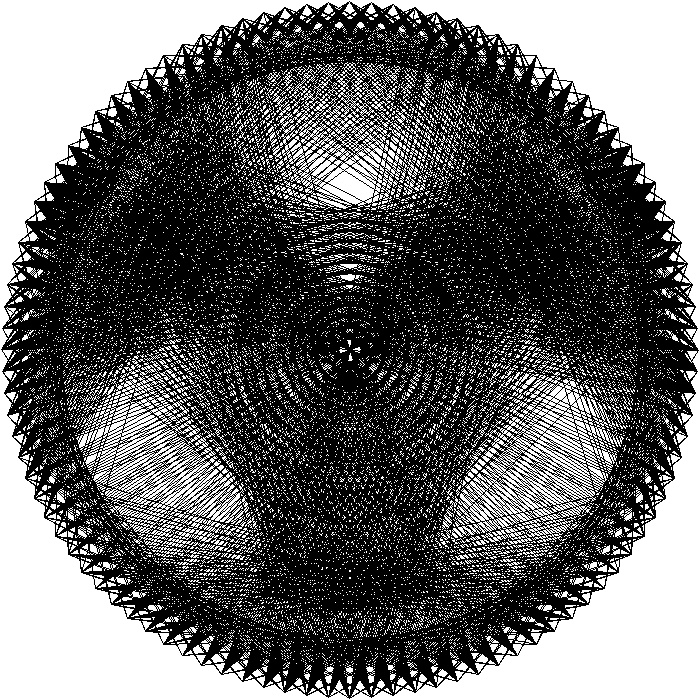
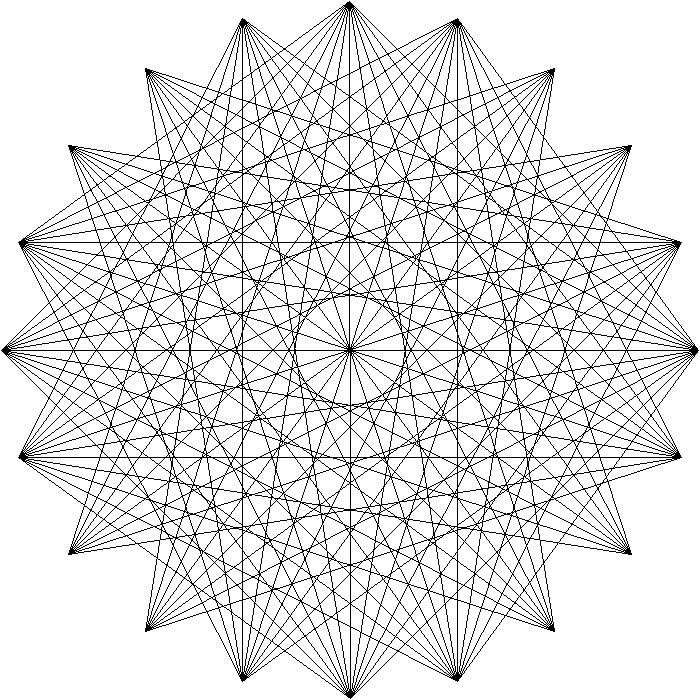
work

diff --git a/main.py b/main.py
@@ -4,12 +4,12 @@ import cv2 as cv
 import numpy as np
 
 # CONSTANTS/CONFIG
-IMPORT_FILEPATH = "res/radiation.webp"
+IMPORT_FILEPATH = "res/mona_lisa.jpg"
 PINNED_FILEPATH = "output/pinned.jpg"
 OUTPUT_FILEPATH = "output/output.jpg"
 
-NUM_PINS = 100
-NUM_LINES = 2000 
+NUM_PINS = 20
+NUM_LINES = 100 
 MAX_RESOLUTION = 700
 
 INVERT_IMAGE = False
@@ -56,67 +56,60 @@ for i in range(NUM_PINS):
 # TODO: Actually prevent duplicate lines
 
 # calculate priority queues for each pin
-priority_queues = []
-for f, pin_from in enumerate(pins):
+start_index = 0
+line_image = np.full(cropped_img.shape,255, dtype=np.uint8)
+final_image = np.full((radius, radius), 255, dtype=np.uint8)
+pin_history = [[] for x in range(NUM_PINS)]
+
+for line_idx in range(NUM_LINES):
     priority_queue = []
+    pin_from = pins[start_index]
+
     for t, pin_to in enumerate(pins):
         # If calculating a line with itself, continue
-        if f == t: continue
+        if start_index == t: continue
 
-        # Create image with line
-        line_image = cv.line(np.copy(cropped_img), pin_from, pin_to, 0, 1)
+        # Add line to proposed image
+        proposed_line_img = cv.line(np.copy(line_image), pin_from, pin_to, 0, 1)
+
+        # Actual line change
+        line_effectiveness = np.sum(cv.absdiff(proposed_line_img, line_image))
 
         # Line length
         line_length = np.linalg.norm(np.array(pin_from) - np.array(pin_to))
 
         # Cost is the difference between the images averaged with line length
-        cost = np.sum(cv.absdiff(line_image, cropped_img))/line_length
+        benefit = (np.sum(cv.absdiff(line_image, cropped_img))) / (line_length)
 
-        # Push cost and destination pin index
-        heapq.heappush(priority_queue, (cost, t)) 
+        # Push benefit and destination pin index
+        heapq.heappush(priority_queue, (benefit, t)) 
 
-    priority_queues.append(priority_queue)
-    del priority_queue
-
-    # Fancy status printing
-    sys.stdout.write('\r')
-    sys.stdout.write(f'Calculating priority queues... {(int)(f/NUM_PINS*100)}%')
-    sys.stdout.flush()
-
-# New line out of status
-sys.stdout.write("\n")
-
-final_image = np.full((radius, radius), 255, dtype=np.uint8)
-start_index = 0
-
-# Draw pins
-for p in pins:
-    pinned_image = cv.circle(cropped_img, (p[0]-1,p[1]-1), 3, 255, -1)
-
-for i in range(NUM_LINES):
-    this_pq = priority_queues[start_index]
-
-    dest_index = heapq.heappop(this_pq)[1]
-
-    # If destination has their smallest cost line as a duplicate, remove it
-    dest_pq = priority_queues[dest_index]
-    if (dest_pq[0][1] == start_index and len(dest_pq) > 0):
-        heapq.heappop(dest_pq)
-    
-
-    # uniqueness = np.sum(cv.absdiff(final_image, cv.line(np.copy(final_image), pins[start_index], pins[dest_index], 255, 1)))
-    # if uniqueness < 1000 and len(this_pins_pq) > 0:
-    #     continue
+    dest_index = heapq.heappop(priority_queue)[1]
+    while (dest_index in pin_history[start_index]):
+        dest_index = heapq.heappop(priority_queue)[1]
 
     # draw final line on image
     final_image = cv.line(final_image, pins[start_index], pins[dest_index], 0, 1)
 
+    # draw line on line image
+    line_image = cv.line(line_image, pins[start_index], pins[dest_index], 0, 1)
+
+    # add destination index to history
+    pin_history[start_index].append(dest_index)
+    pin_history[dest_index].append(start_index)
+
     # set starting index to destination for next loop
     start_index = dest_index
 
+    # Fancy status printing
     sys.stdout.write('\r')
-    sys.stdout.write(f'Printing image... {(int)(i/NUM_LINES*100)}%')
+    sys.stdout.write(f'Printing lines... {(int)(line_idx/NUM_LINES*100)}%')
     sys.stdout.flush()
+
+
+# Draw pins
+for p in pins:
+    pinned_image = cv.circle(cropped_img, (p[0]-1,p[1]-1), 3, 255, -1)
 
 print("\nFinished!")
 
